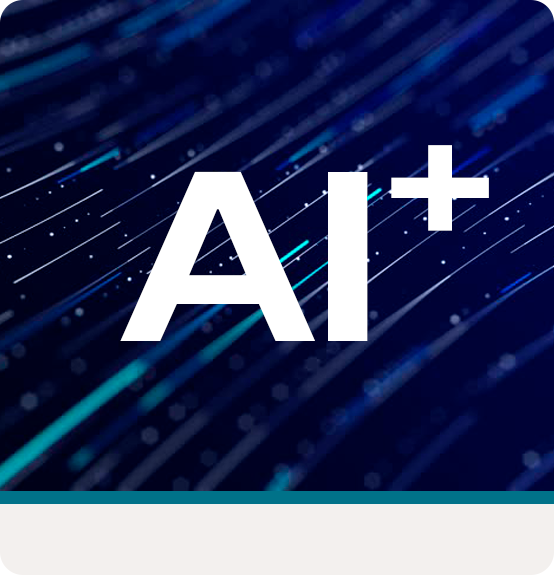
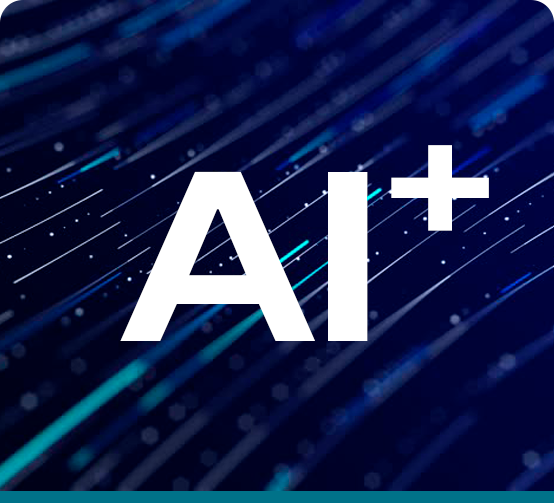
fix: services sizing

diff --git a/src/components/Who.tsx b/src/components/Who.tsx
@@ -19,18 +19,18 @@ export default function Who() {
         </div>
 
         {/* Middle Section */}
-        <div className="relative flex flex-col items-center justify-between gap-8 py-12 lg:flex-row">
-          <div className="relative inline-flex max-w-fit flex-col gap-4">
+        <div className="relative flex flex-col items-center justify-evenly gap-8 py-12 lg:flex-row">
+          <div className="relative inline-flex max-w-fit flex-col rounded-2xl bg-[#f2f0ee]">
             <Image
               src="/services/Creative Services.png"
               alt="Creative Services"
-              width={400}
-              height={400}
+              width={500}
+              height={500}
               className=""
             />
             <Link
               href="/men-at-work"
-              className="absolute right-2 bottom-2 z-10 flex items-center gap-2 rounded-full bg-white px-4 py-2 text-sm font-medium hover:bg-amber-50"
+              className="z-10 m-2 ml-auto flex w-fit items-center gap-2 rounded-full bg-white px-4 py-2 text-sm font-medium hover:bg-amber-50"
             >
               Know More
               <Image
@@ -41,17 +41,17 @@ export default function Who() {
               />
             </Link>
           </div>
-          <div className="relative inline-flex max-w-fit flex-col gap-4">
+          <div className="relative inline-flex max-w-fit flex-col rounded-2xl bg-[#f2f0ee]">
             <Image
               src="/services/Software Solutions.png"
               alt="Software Solutions"
-              width={400}
-              height={400}
+              width={500}
+              height={500}
               className=""
             />
             <Link
               href="/men-at-work"
-              className="absolute right-2 bottom-2 z-10 flex items-center gap-2 rounded-full bg-white px-4 py-2 text-sm font-medium hover:bg-amber-50"
+              className="z-10 m-2 ml-auto flex w-fit items-center gap-2 rounded-full bg-white px-4 py-2 text-sm font-medium hover:bg-amber-50"
             >
               Know More
               <Image
@@ -62,17 +62,17 @@ export default function Who() {
               />
             </Link>
           </div>
-          <div className="relative inline-flex max-w-fit flex-col flex-wrap gap-4">
+          <div className="relative inline-flex max-w-fit flex-col rounded-2xl bg-[#f2f0ee]">
             <Image
               src="/services/AI+.png"
               alt="AI+"
-              width={400}
-              height={400}
+              width={500}
+              height={500}
               className=""
             />
             <Link
               href="/men-at-work"
-              className="absolute right-2 bottom-2 z-10 flex items-center gap-2 rounded-full bg-white px-4 py-2 text-sm font-medium hover:bg-amber-50"
+              className="z-10 m-2 ml-auto flex w-fit items-center gap-2 rounded-full bg-white px-4 py-2 text-sm font-medium hover:bg-amber-50"
             >
               Know More
               <Image
